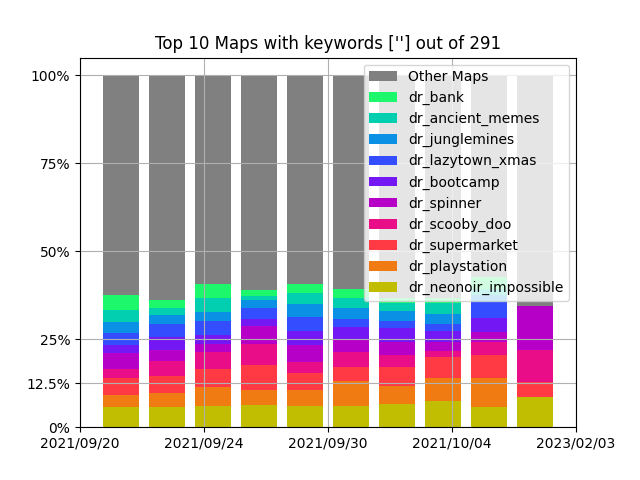
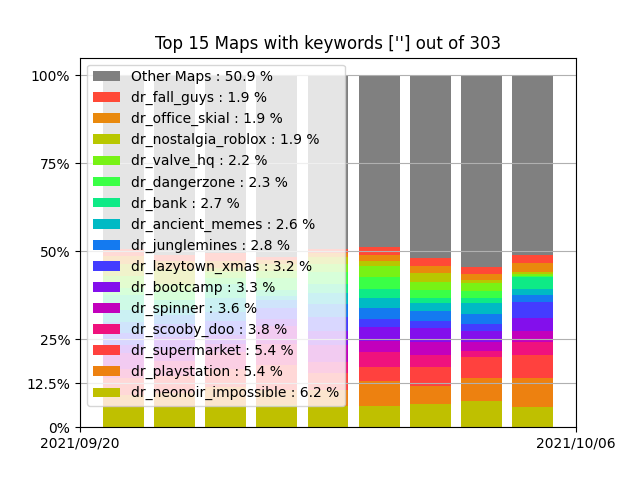
Fixed issue where no legend labels were shown. More comprehensive name filtering system. Added percentages to legend

diff --git a/read.py b/read.py
@@ -4,6 +4,7 @@ from math import pi
 import numpy as np
 import csv
 import re
+from statistics import mean 
 from datetime import datetime, timedelta
 import copy
 import os
@@ -11,17 +12,20 @@ from R6LIB import dictmerger,dictmax,dictlimx,arrayrectifier,weakfiller
 from write import Format
 
 #Parameters
-filename = "output_example.csv" #file to read
+filename = "output.csv" #file to read
 filenamepng = "output.png" #name of the figure
-MapsToShow = 10 #How many maps to show in order of popularity
+MapsToShow = 15 #How many maps to show in order of popularity
 AverageDays = 2 #how many days each bar represents
 StartDate = "2001-10-02" #date range to use
-EndDate = "2025-10-02"  #date range to use
-XaxisDates = 5 #How many dates to show in the figure. Maximum is the amount of bars. Minimum is 2
+EndDate = "2022-10-02"  #date range to use
+XaxisDates = 1 #How many dates to show in the figure. Maximum is the amount of bars. Minimum is 2
 OnlyMapsContaining = [""] #EX.["Playstation","Bazinga","Lazy"]
 ColorForOtherMaps = (0.5,0.5,0.5)
 ColorIntensity = 25
-filter = ["fix","final","redux","1","2","3","4","5","6","7","8","9","0","finished","remake"] #Will not consider maps with these suffixes to be unique
+wordfilter = ["fix","final","redux","finished","remake","optimized","finalplus","mini"] #Will not consider maps with these suffixes to be unique
+versionfilter = ["v","b","a","rc","x","f"]
+
+
 
 def ColorGen():
     global previouscolor
@@ -42,7 +46,7 @@ def ColorGen():
     return col
 
 def plotdraw(_X,_Y,_label):
-    Labels.append(_label)
+    Labels.append(f"{_label} : {round(100*mean(_Y),1)} %")
     global previousmap
     col = ColorGen()
 
@@ -127,9 +131,11 @@ def SuffixFilter(x):
     z = x[y:]
     e = z.split("_")
 
-    for n in filter:
+    for n in wordfilter:
         for idx, n2 in enumerate(e):
-            if(n in n2):
+            if(n == n2 or n == n2[::-1]):
+                e.pop(idx)
+            elif(n in n2 and len(n)>1):
                 e.pop(idx)
     
     for e2 in e:
@@ -159,6 +165,17 @@ def plotter():
     previouscolor = 0
     allmaps = {}
     previousmap = None
+
+
+    RawVersionFitler = []
+    for version in versionfilter:
+        RawVersionFitler.append(version)
+        for d in range(10):
+            RawVersionFitler.append(version+str(d))
+            
+    
+    wordfilter.extend(RawVersionFitler)
+
 
     
     predata = timechunker()
@@ -200,13 +217,22 @@ def plotter():
         plotdraw(X,_YNORMALIZED,mapname)
 
     force = True
-    if(len(TopMaps) != mapcount and type(previousmap) is not type(None)):
+    if(type(previousmap) is not type(None) and len(TopMaps) != mapcount):
         plotdraw(X,np.ones((len(previousmap)), dtype=int)-previousmap,"Other Maps")
         plot.title(f"Top {len(TopMaps)} Maps with keywords {OnlyMapsContaining} out of {mapcount}")
         plt.legend(list(reversed(Handles)),list(reversed(Labels)))
-    else:
+        plt.grid(True)
+
+    elif(mapcount == 0):
         plot.title(f"None maps found using keywords {OnlyMapsContaining}")
-    plt.grid(True)
+
+    else:
+        plot.title(f"Top {len(TopMaps)} Maps with keywords {OnlyMapsContaining} out of {mapcount}")
+        plt.legend(list(reversed(Handles)),list(reversed(Labels)))
+        plt.grid(True)
+
+
+
 
     dirname = os.path.dirname(os.path.realpath(__file__))
     rawfilename = os.path.join(dirname,filenamepng)
